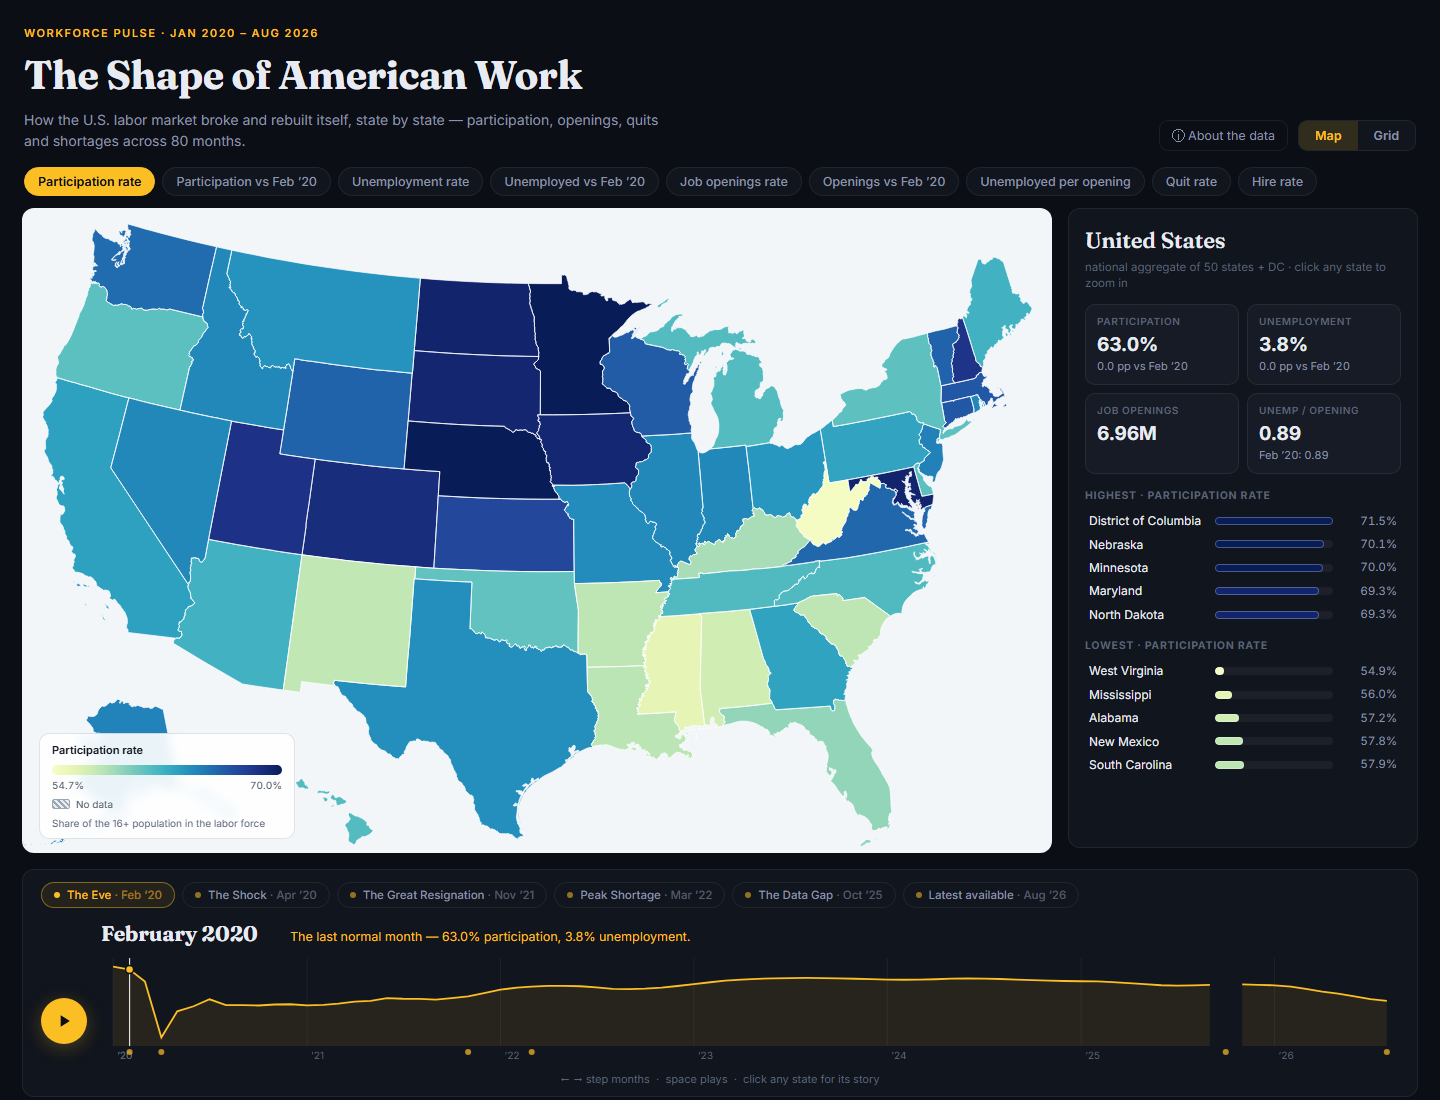
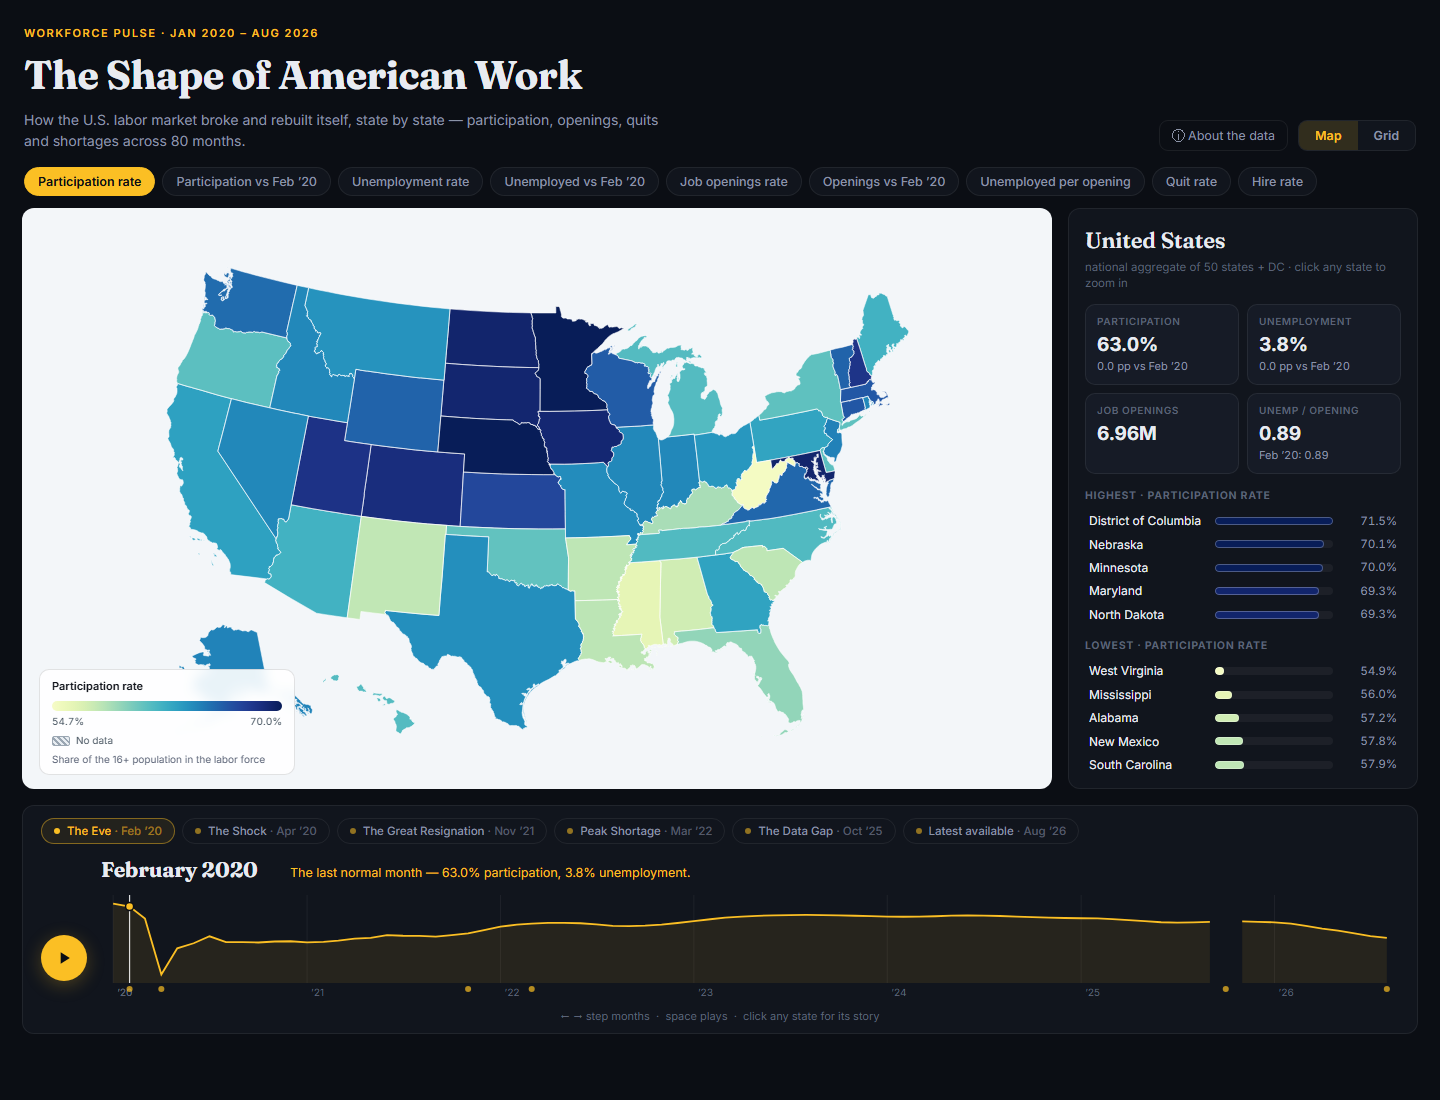
Draw the map at 75% of its panel on desktop layouts
The U.S. map filled the whole light panel and dominated the page. On
side-by-side layouts (wider than 1020px) the map and tile grid now render at
75% of the panel width, centered vertically and horizontally; stacked tablet
and phone layouts keep the full width. As a side effect the legend no longer
covers Alaska or Hawaii.

The timeline caption can now wrap below the month label, fixing a small
horizontal overflow on 320-375px phones. The README screenshot is refreshed
and the stylesheet cache version bumped.

Changed region(s): [[0.0, 0.1855, 0.9688, 0.9891], [0.75, 0.8345, 0.7812, 0.8655]]

diff --git a/styles.css b/styles.css
@@ -136,6 +136,11 @@ main {
   overflow: hidden;
 }
 #map { display: block; width: 100%; height: auto; }
+/* Side-by-side layouts draw the map at 75% of its panel, centered, so it does not dominate the page. */
+@media (min-width: 1021px) {
+  #mapWrap { display: flex; align-items: center; justify-content: center; }
+  #map { width: 75%; }
+}
 
 #map .state {
   stroke: rgba(255, 255, 255, 0.9);
@@ -363,7 +368,7 @@ main {
 #playBtn:hover { transform: scale(1.07); box-shadow: 0 6px 22px rgba(251, 191, 36, 0.4); }
 
 .tl-main { flex: 1; min-width: 0; }
-.tl-head { display: flex; align-items: baseline; gap: 14px; margin-bottom: 2px; }
+.tl-head { display: flex; flex-wrap: wrap; align-items: baseline; gap: 2px 14px; margin-bottom: 2px; }  /* caption wraps below the month on phones */
 #periodLabel {
   font-family: var(--serif);
   font-size: 21px;

diff --git a/index.html b/index.html
@@ -8,7 +8,7 @@
 <link rel="preconnect" href="https://fonts.googleapis.com">
 <link rel="preconnect" href="https://fonts.gstatic.com" crossorigin>
 <link href="https://fonts.googleapis.com/css2?family=Fraunces:opsz,wght@9..144,600;9..144,700&family=Inter:wght@400;500;600;700&display=swap" rel="stylesheet">
-<link rel="stylesheet" href="styles.css?v=20260925-ylgnbu">
+<link rel="stylesheet" href="styles.css?v=20260926-map75">
 </head>
 <body>
 
